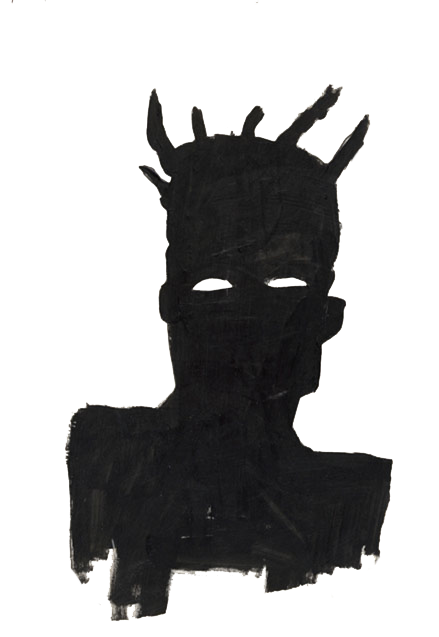
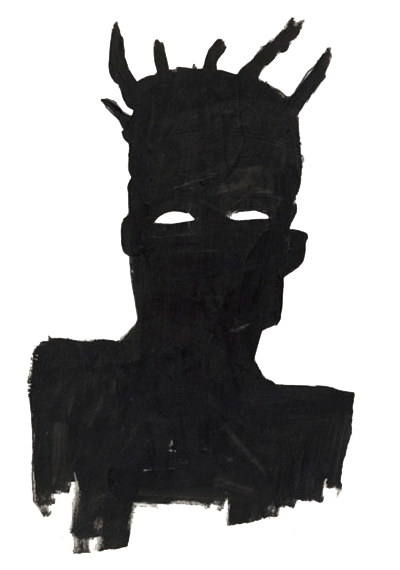
another two

diff --git a/src/App.js b/src/App.js
@@ -6,18 +6,44 @@ function App() {
     return (
         <div className="App">
             <NavBar/>
-            <Screen bg={'1'}/>
-            <Screen bg={'2'}/>
-            <Screen bg={'3'}/>
-            <Screen bg={'4'}/>
-            <Screen bg={'5'}/>
-            <Screen bg={'6'}/>
-            <Screen bg={'7'}/>
-            <Screen bg={'8'}/>
-            <Screen bg={'9'}/>
-            <Screen bg={'10'}/>
-            <Screen bg={'11'}/>
-            <Screen bg={'12'}/>
+                <Screen title={'Who Was Jean-Michel Basquiat?'} bg={'1'} pic={'32'}>
+                        Jean-Michel Basquiat was a Neo-Expressionist painter in the 1980s. He is best known for his primitive style and his collaboration with pop artist Andy Warhol.
+                        <br/>Jean-Michel Basquiat first attracted attention for his graffiti under the name "SAMO" in New York City. He sold sweatshirts and postcards featuring his artwork on the streets before his painting career took off. He collaborated with Andy Warhol in the mid-1980s, which resulted in a show of their work. Basquiat died on August 12, 1988, in New York City.
+                </Screen>
+                <Screen title={'Early Life'} bg={'2'} pic={'23'}>
+                        Basquiat was born in Brooklyn, New York, on December 22, 1960. With a Haitian-American father and a Puerto Rican mother, Basquiat's diverse cultural heritage was one of his many sources of inspiration.
+                        <br/>
+                        A self-taught artist, Basquiat began drawing at an early age on sheets of paper his father, an accountant, brought home from the office. As he delved deeper into his creative side, his mother strongly encouraged him to pursue his artistic talents.
+                        <br/>
+                        Basquiat first attracted attention for his graffiti in New York City in the late 1970s, under the name "SAMO." Working with a close friend, he tagged subway trains and Manhattan buildings with cryptic aphorisms.
+                        <br/>
+                        In 1977 Basquiat quit high school a year before he was slated to graduate. To make ends meet, he sold sweatshirts and postcards featuring his artwork on the streets of his native New York.
+                </Screen>
+                <Screen title={'Crown Motif'} bg={'3'} pic={'97'}>
+                        In his earlier works, Basquiat was known for using a crown motif, which was his way of celebrating Black people as majestic royalty or deeming them as saints.
+                        <br/>
+                        Describing the crown itself in further detail, artist Francesco Clemente posited: "Jean-Michel’s crown has three peaks, for his three royal lineages: the poet, the musician, the great boxing champion. Jean measured his skill against all he deemed strong, without prejudice as to their taste or age."
+                </Screen>
+                <Screen title={'Paintings'} bg={'9'} pic={'65mm'}>
+                        Three years of struggle gave way to fame in 1980 when Basquiat's work was featured in a group show. His work and style received critical acclaim for the fusion of words, symbols, stick figures, and animals. Soon, his paintings came to be adored by an art-loving public that had no problem paying as much as $50,000 for a Basquiat original.
+                        <br/>
+                        His rise coincided with the emergence of a new art movement, Neo-Expressionism, ushering in a wave of new, young and experimental artists that included Julian Schnabel and Susan Rothenberg.
+                        <br/>
+                        In 2017, a Japanese billionaire broke a record when he bought Basquiat's “Untitled,” a 1982 painting of a skull, for $110.5 million at a Sotheby’s auction.
+                </Screen>
+                <Screen title={'Basquiat and Warhol'} bg={'5'} pic={'wa'}>
+                        In the mid-1980s, Basquiat collaborated with famed pop artist Warhol, which resulted in a show of their work that featured a series of corporate logos and cartoon characters.
+                        <br/>
+                        On his own, Basquiat continued to exhibit around the country and the world. In 1986, he traveled to Africa for a show in Abidjan, Ivory Coast. That same year, the 25-year-old exhibited nearly 60 paintings at the Kestner-Gesellschaft Gallery in Hanover, Germany — becoming the youngest artist to ever showcase his work there.
+                </Screen>
+                <Screen title={'Personal Problems'} bg={'8'} pic={'1'}>
+                        As his popularity soared, so did Basquiat's personal problems. By the mid-1980s, friends became increasingly concerned by his excessive drug use. He became paranoid and isolated himself from the world around him for long stretches. Desperate to kick a heroin addiction, he left New York for Hawaii in 1988, returning a few months later and claiming to be sober.
+                </Screen>
+            <Screen title={'Death'} bg={'6'} pic={'3'}>
+                    Sadly, he wasn't. Basquiat died of a drug overdose on August 12, 1988, in New York City. He was 27 years old. Although his art career was brief, Basquiat has been credited with bringing the African American and Latino experience into the elite art world.
+                    <br/>
+                    After his death, the artist was back in the spotlight in May 2017 when a Japanese billionaire bought “Untitled,” a 1982 painting of a skull, for $110.5 million at a Sotheby’s auction. The sale set a record for the highest price for a work by an American artist and for an artwork created after 1980. It was also the highest price for a painting by Basquiat and by a Black artist.
+            </Screen>
         </div>
     );
 }

diff --git a/src/js/Screen.js b/src/js/Screen.js
@@ -14,13 +14,15 @@ function Screen(props){
                         style={{
                             transform: `scale(${Math.min(1, percentage)})`
                         }}
-                    ><p>"Lorem ipsum dolor sit amet, consectetur adipiscing elit, sed do eiusmod tempor incididunt ut labore et dolore magna aliqua. Ut enim ad minim veniam, quis nostrud exercitation ullamco laboris nisi ut aliquip ex ea commodo consequat. Duis aute irure dolor in reprehenderit in voluptate velit esse cillum dolore eu fugiat nulla pariatur. Excepteur sint occaecat cupidatat non proident, sunt in culpa qui officia deserunt mollit anim id est laborum.</p></div>
-                    <img src={props.bg+'.png'} style={{
+                    >
+                        <h2>{props.title}</h2>
+                        <p>{props.children}</p></div>
+                    <img src={props.pic+'.png'} style={{
                         position: "absolute",
-                        right: 80/(-percentage)+15,
+                        right: -(1-Math.min(1,percentage))*500,
                         bottom: "0",
-                        width: 400,
-                        height: "auto"
+                        width: "auto",
+                        height: "70vh"
                     }}/>
                 </div>
             )}/>

diff --git a/src/css/Screen.css b/src/css/Screen.css
@@ -16,25 +16,27 @@
     width: min(100%,450px);
     min-height: 450px;
     box-sizing:border-box;
-    border-radius: 50%;
-    animation: backgroundColorChange 120s infinite;
+    /*border-radius: 50%;
+    animation: float 60s ease-in-out infinite;*/
+    background-color: darkblue;
     box-shadow: inset 0 0 2000px rgba(255, 255, 255, .5);
+    flex-direction: column;
 }
 
-@keyframes backgroundColorChange {
+@keyframes float {
     0% {
-        background-color: red;
-    }
-    25% {
-        background-color: deeppink;
-    }
-    50%{
-        background-color: darkolivegreen;
-    }
-    75%{
+        box-shadow: 0 5px 15px 0px rgba(0,0,0,0.6);
+        transform: translatey(0px);
         background-color: darkblue;
     }
-    100%{
-        background-color: red;
+    50% {
+        box-shadow: 0 25px 15px 0px rgba(0,0,0,0.2);
+        transform: translatey(-20px);
+        background-color: blueviolet;
+    }
+    100% {
+        box-shadow: 0 5px 15px 0px rgba(0,0,0,0.6);
+        transform: translatey(0px);
+        background-color: darkblue;
     }
 }

diff --git a/src/js/NavBar.js b/src/js/NavBar.js
@@ -7,15 +7,10 @@ function NavBar(){
             <NavItem to={'1'}/>
             <NavItem to={'2'}/>
             <NavItem to={'3'}/>
-            <NavItem to={'4'}/>
-            <NavItem to={'5'}/>
-            <NavItem to={'6'}/>
-            <NavItem to={'7'}/>
-            <NavItem to={'8'}/>
             <NavItem to={'9'}/>
-            <NavItem to={'10'}/>
-            <NavItem to={'11'}/>
-            <NavItem to={'12'}/>
+            <NavItem to={'5'}/>
+            <NavItem to={'8'}/>
+            <NavItem to={'6'}/>
         </div>
     )
 }

diff --git a/src/css/NavBar.css b/src/css/NavBar.css
@@ -26,7 +26,7 @@
     opacity: 1;
     position: relative;
     z-index: 2;
-    flex-grow: 3;
+    flex-grow: 1.75;
     -webkit-box-shadow: 0px 0px 20px 15px #000000;
     box-shadow: 0px 0px 20px 15px #000000;
  }
